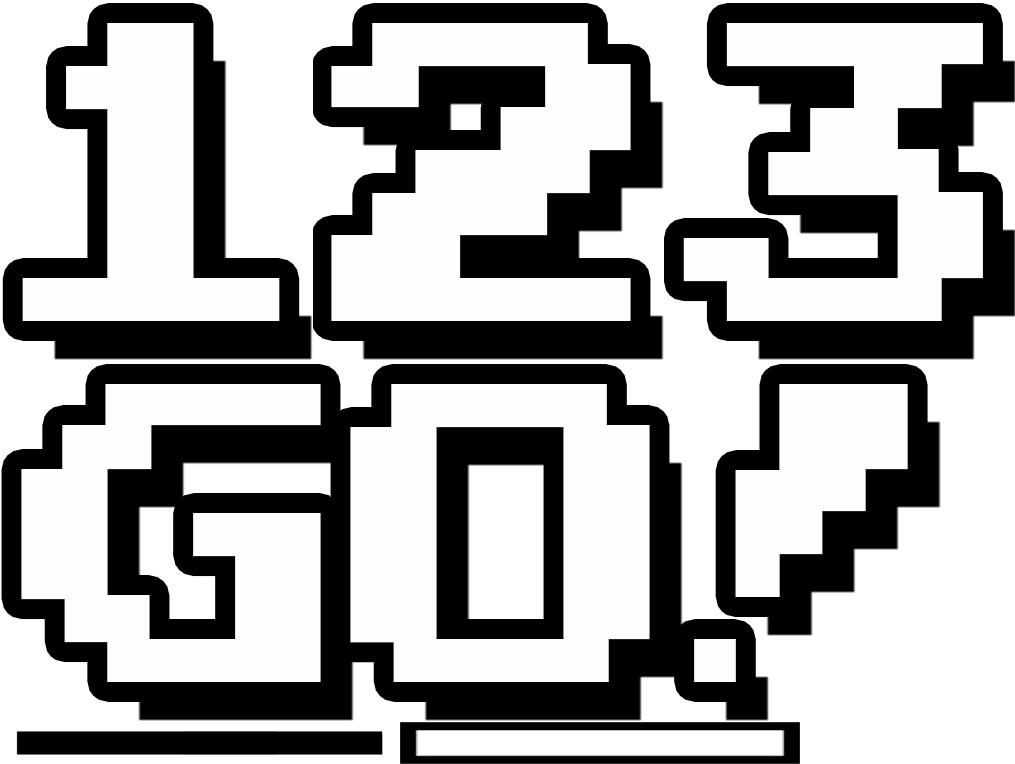
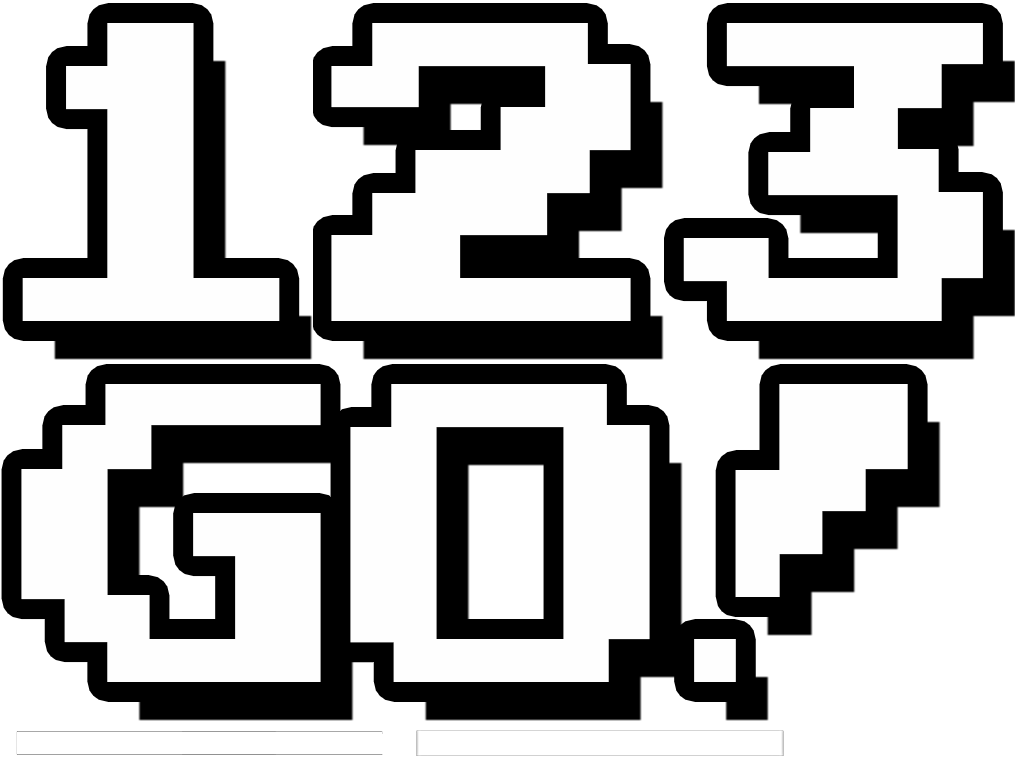
General timer lazy implementation.

Changed region(s): [[0.0, 0.9332, 0.7941, 1.0]]

diff --git a/js/game/stages/Stage1/main.js b/js/game/stages/Stage1/main.js
@@ -55,6 +55,7 @@ function Stage1()
 	{
 		load_dialog();
 		load_teacher();
+		load_timer();
 	}
 
 	function load_background()
@@ -86,6 +87,19 @@ function Stage1()
 		teacher = game.add.sprite(S1_TEACHER_INITIAL_POSITION_X, S1_TEACHER_INITIAL_POSITION_Y, TEACHER_NAME, TEACHER_POINTING_NAME);
 	}
 
+	var total_timer = null;
+	var time_out_event;
+	var timer_dialog = null;
+
+	function load_timer()
+	{
+		timer_dialog = game.add.sprite(BLACK_PLAIN_DIALOG_POSITION_X, BLACK_PLAIN_DIALOG_POSITION_Y, DIALOG_NAME, BLACK_PLAIN_NAME);
+
+		total_timer = new Timer(BLACK_PLAIN_DIALOG_POSITION_X + 4, BLACK_PLAIN_DIALOG_POSITION_Y + 4);
+		time_out_event = document.addEventListener(total_timer.timer_stopped_event('time_out_event'), function (e) { well_done(); }, false);
+		total_timer.start_timer(10, true);
+	}
+
 	function load_audio()
 	{
 		sound_effects.set_fx(game.add.audioSprite('sound_effects'), 'charm');
@@ -98,12 +112,11 @@ function Stage1()
 	}
 
 	var countdown = null;
-	var timer = null;
+	var initial_countdown_timer = null;
 	function show_countdown()
 	{
-		timer = new Timer();
-		countdown_next_event = document.addEventListener(timer.timer_stopped_event('countdown_next_event'), function (e) { update_countdown(); }, false);
-
+		initial_countdown_timer = new Timer();
+		countdown_next_event = document.addEventListener(initial_countdown_timer.timer_stopped_event('countdown_next_event'), function (e) { update_countdown(); }, false);
 		update_countdown();
 	}
 
@@ -111,36 +124,26 @@ function Stage1()
 	{
 		if(countdown == null)
 		{
-			countdown = game.add.sprite(COUNTDOWN_ANIMATION_X, COUNTDOWN_ANIMATION_Y, TIMER_NAME, COUNTDOWN_3_NAME);
-			play_sound(sound_effects, 'normal_countdown_tone');
-			fade_pulse_once(countdown);
-
-			timer.start_timer(0, false);
+			next_countdown(COUNTDOWN_3_NAME, 'normal_countdown_tone');
 		}
 		else if(countdown.frameName == COUNTDOWN_3_NAME)
 		{
-			countdown.frameName = COUNTDOWN_2_NAME;
-			play_sound(sound_effects, 'normal_countdown_tone');
-			fade_pulse_once(countdown);
-			timer.start_timer(0, false);
+			next_countdown(COUNTDOWN_2_NAME, 'normal_countdown_tone');
 		}
 		else if(countdown.frameName == COUNTDOWN_2_NAME)
 		{
-			countdown.frameName = COUNTDOWN_1_NAME;
-			play_sound(sound_effects, 'normal_countdown_tone');
-			fade_pulse_once(countdown);
-			timer.start_timer(0, false);
+			next_countdown(COUNTDOWN_1_NAME, 'normal_countdown_tone');
 		} 
 		else if(countdown.frameName == COUNTDOWN_1_NAME) 
 		{
-			countdown.frameName = COUNTDOWN_GO_NAME;
 			countdown.x = SCREEN_WIDTH / 7;
-			play_sound(sound_effects, 'final_countdown_tone');
-			fade_pulse_once(countdown);
-			timer.start_timer(0, false);
+			next_countdown(COUNTDOWN_GO_NAME, 'final_countdown_tone');
 		}
 		else if(countdown.frameName == COUNTDOWN_GO_NAME) 
 		{
+			game.time.events.remove(countdown_next_event);
+			initial_countdown_timer = null;
+
 			hide(countdown);
 
 			load_assets();
@@ -149,12 +152,28 @@ function Stage1()
 			teacher_reads_sentence();
 		}
 	}
+
+	function next_countdown(frame_name, sound_effect)
+	{
+		if(countdown == null) 
+		{
+			countdown = game.add.sprite(COUNTDOWN_ANIMATION_X, COUNTDOWN_ANIMATION_Y, TIMER_NAME, frame_name);
+		}
+		else
+		{
+			countdown.frameName = frame_name;
+		}
+
+		play_sound(sound_effects, sound_effect);
+		fade_pulse_once(countdown);
+
+		initial_countdown_timer.start_timer(0, false);
+	}
 	////START
 
 	////PLAY
 	function teacher_reads_sentence()
 	{
-		//teacher.frameName = TEACHER_SPEAKING;
 		play_sound(teacher_voice, S1_TEACHER_CURRENT_SENTENCE);
 	}
 	////PLAY
@@ -198,6 +217,14 @@ function Stage1()
 	////WELL DONE
 	function well_done()
 	{
+		timer_dialog.destroy();
+		recorder.force_stop();
+
+		if(dialog_bubble.content == null)
+		{
+			load_small_dialog_bubble();
+		}
+
 		dialog_bubble.content.text = S1_SMALL_DIALOG_05;
 		sentence.destroy();
 

diff --git a/js/game/timers/timer.js b/js/game/timers/timer.js
@@ -1,7 +1,9 @@
-function Timer()
+function Timer(xP = 0, yP = 0)
 {
 	var timer_started = null;
 	var timer_stopped = null;
+	var x = xP
+	var y = yP;
 
 	this.timer_started_event = function(event_name)
 	{
@@ -28,7 +30,7 @@ function Timer()
 
 	var repeat_event;
 	
-	this.start_timer = function(time, visible, x, y)
+	this.start_timer = function(time, visible)
 	{
 		time_remaining = time;
 		interval = 400 / time;
@@ -40,11 +42,11 @@ function Timer()
 	    draw(visible);
 	}
 
-	function draw(visible, x = 0, y = 0)
+	function draw(visible)
 	{
 		loading_bar = game.add.sprite(x, y, TIMER_NAME, TIMER_BAR_NAME);
 		loading_bar.background = game.add.sprite(x, y, TIMER_NAME, TIMER_BACKGROUND_NAME);
-		loading_bar.text = game.add.bitmapText(loading_bar.background.x + loading_bar.background.width + 5, loading_bar.background.y + 10, DEFAULT_DIALOG_FONT, time_remaining, DEFAULT_FONT_SIZE);
+		loading_bar.text = game.add.bitmapText(loading_bar.background.x + loading_bar.background.width + 5, loading_bar.background.y + 10, NOKIA_WHITE_NAME, 'Te quedan ' + time_remaining + ' segundos.', DEFAULT_FONT_SIZE);
 
 		if(!visible)
 		{
@@ -67,7 +69,7 @@ function Timer()
 			document.dispatchEvent(timer_stopped);
 		}
 
-		loading_bar.text.text = time_remaining;
+		loading_bar.text.text = 'Te quedan ' + time_remaining + ' segundos.';
 	}
 
 	function reset()

diff --git a/js/game/record/recorder.js b/js/game/record/recorder.js
@@ -74,11 +74,12 @@ function Recorder(iconPosX, iconPosY)
 		}
 	}
 
+	var record_timer_stopped_event = null;
 	function start_timer()
 	{
 		timer = new Timer();
 		
-		document.addEventListener(timer.timer_stopped_event('record_timer_stopped_event'), function (e) { stop_recording(); }, false);
+		record_timer_stopped_event = document.addEventListener(timer.timer_stopped_event('record_timer_stopped_event'), function (e) { stop_recording(); }, false);
 
 		timer.start_timer(5, false);
 	}
@@ -188,12 +189,20 @@ function Recorder(iconPosX, iconPosY)
 	//// START RECORDING
 
 	//// STOP RECORDING
+	var blob_generated = false;
+
 	function stop_recording()
 	{
+		game.time.events.remove(record_timer_stopped_event);
         recording = false;
         icon.destroy();
-        save_blob(data());
+        if(!blob_generated) save_blob(data());
         document.dispatchEvent(done);
+	}
+
+	this.force_stop = function()
+	{
+		stop_recording();
 	}
 
 	function interleave_channels()
@@ -285,6 +294,8 @@ function Recorder(iconPosX, iconPosY)
 
 	function save_blob(data)
 	{
+		blob_generated = true;
+
 		var blob = new Blob ( [ data ], { type : 'audio/wav' } );
 		var url = (window.URL || window.webkitURL).createObjectURL(blob);
 

diff --git a/js/game/config.js b/js/game/config.js
@@ -30,7 +30,7 @@ DEFAULT_DIALOG_FONT = NOKIA_BLACK_NAME;
 DEFAULT_FONT_SIZE = 30;
 
 BLACKBOARD_TEXT_POSITION_X = 350;
-BLACKBOARD_TEXT_POSITION_Y = 50;
+BLACKBOARD_TEXT_POSITION_Y = 70;
 
 //BACKGROUNDS
 BACKGROUND_NAME = 'background'
@@ -117,6 +117,10 @@ SMALL_DIALOG_POSITION_X = 0;
 SMALL_DIALOG_POSITION_Y = 0;
 SMALL_DIALOG_CONTENT_X = 350;
 SMALL_DIALOG_CONTENT_Y = 155;
+
+BLACK_PLAIN_NAME = 'dark_plain';
+BLACK_PLAIN_DIALOG_POSITION_X = 0;
+BLACK_PLAIN_DIALOG_POSITION_Y = 0;
 
 //BUTTONS
 BUTTONS_SPRITESHEET = 'buttons';
